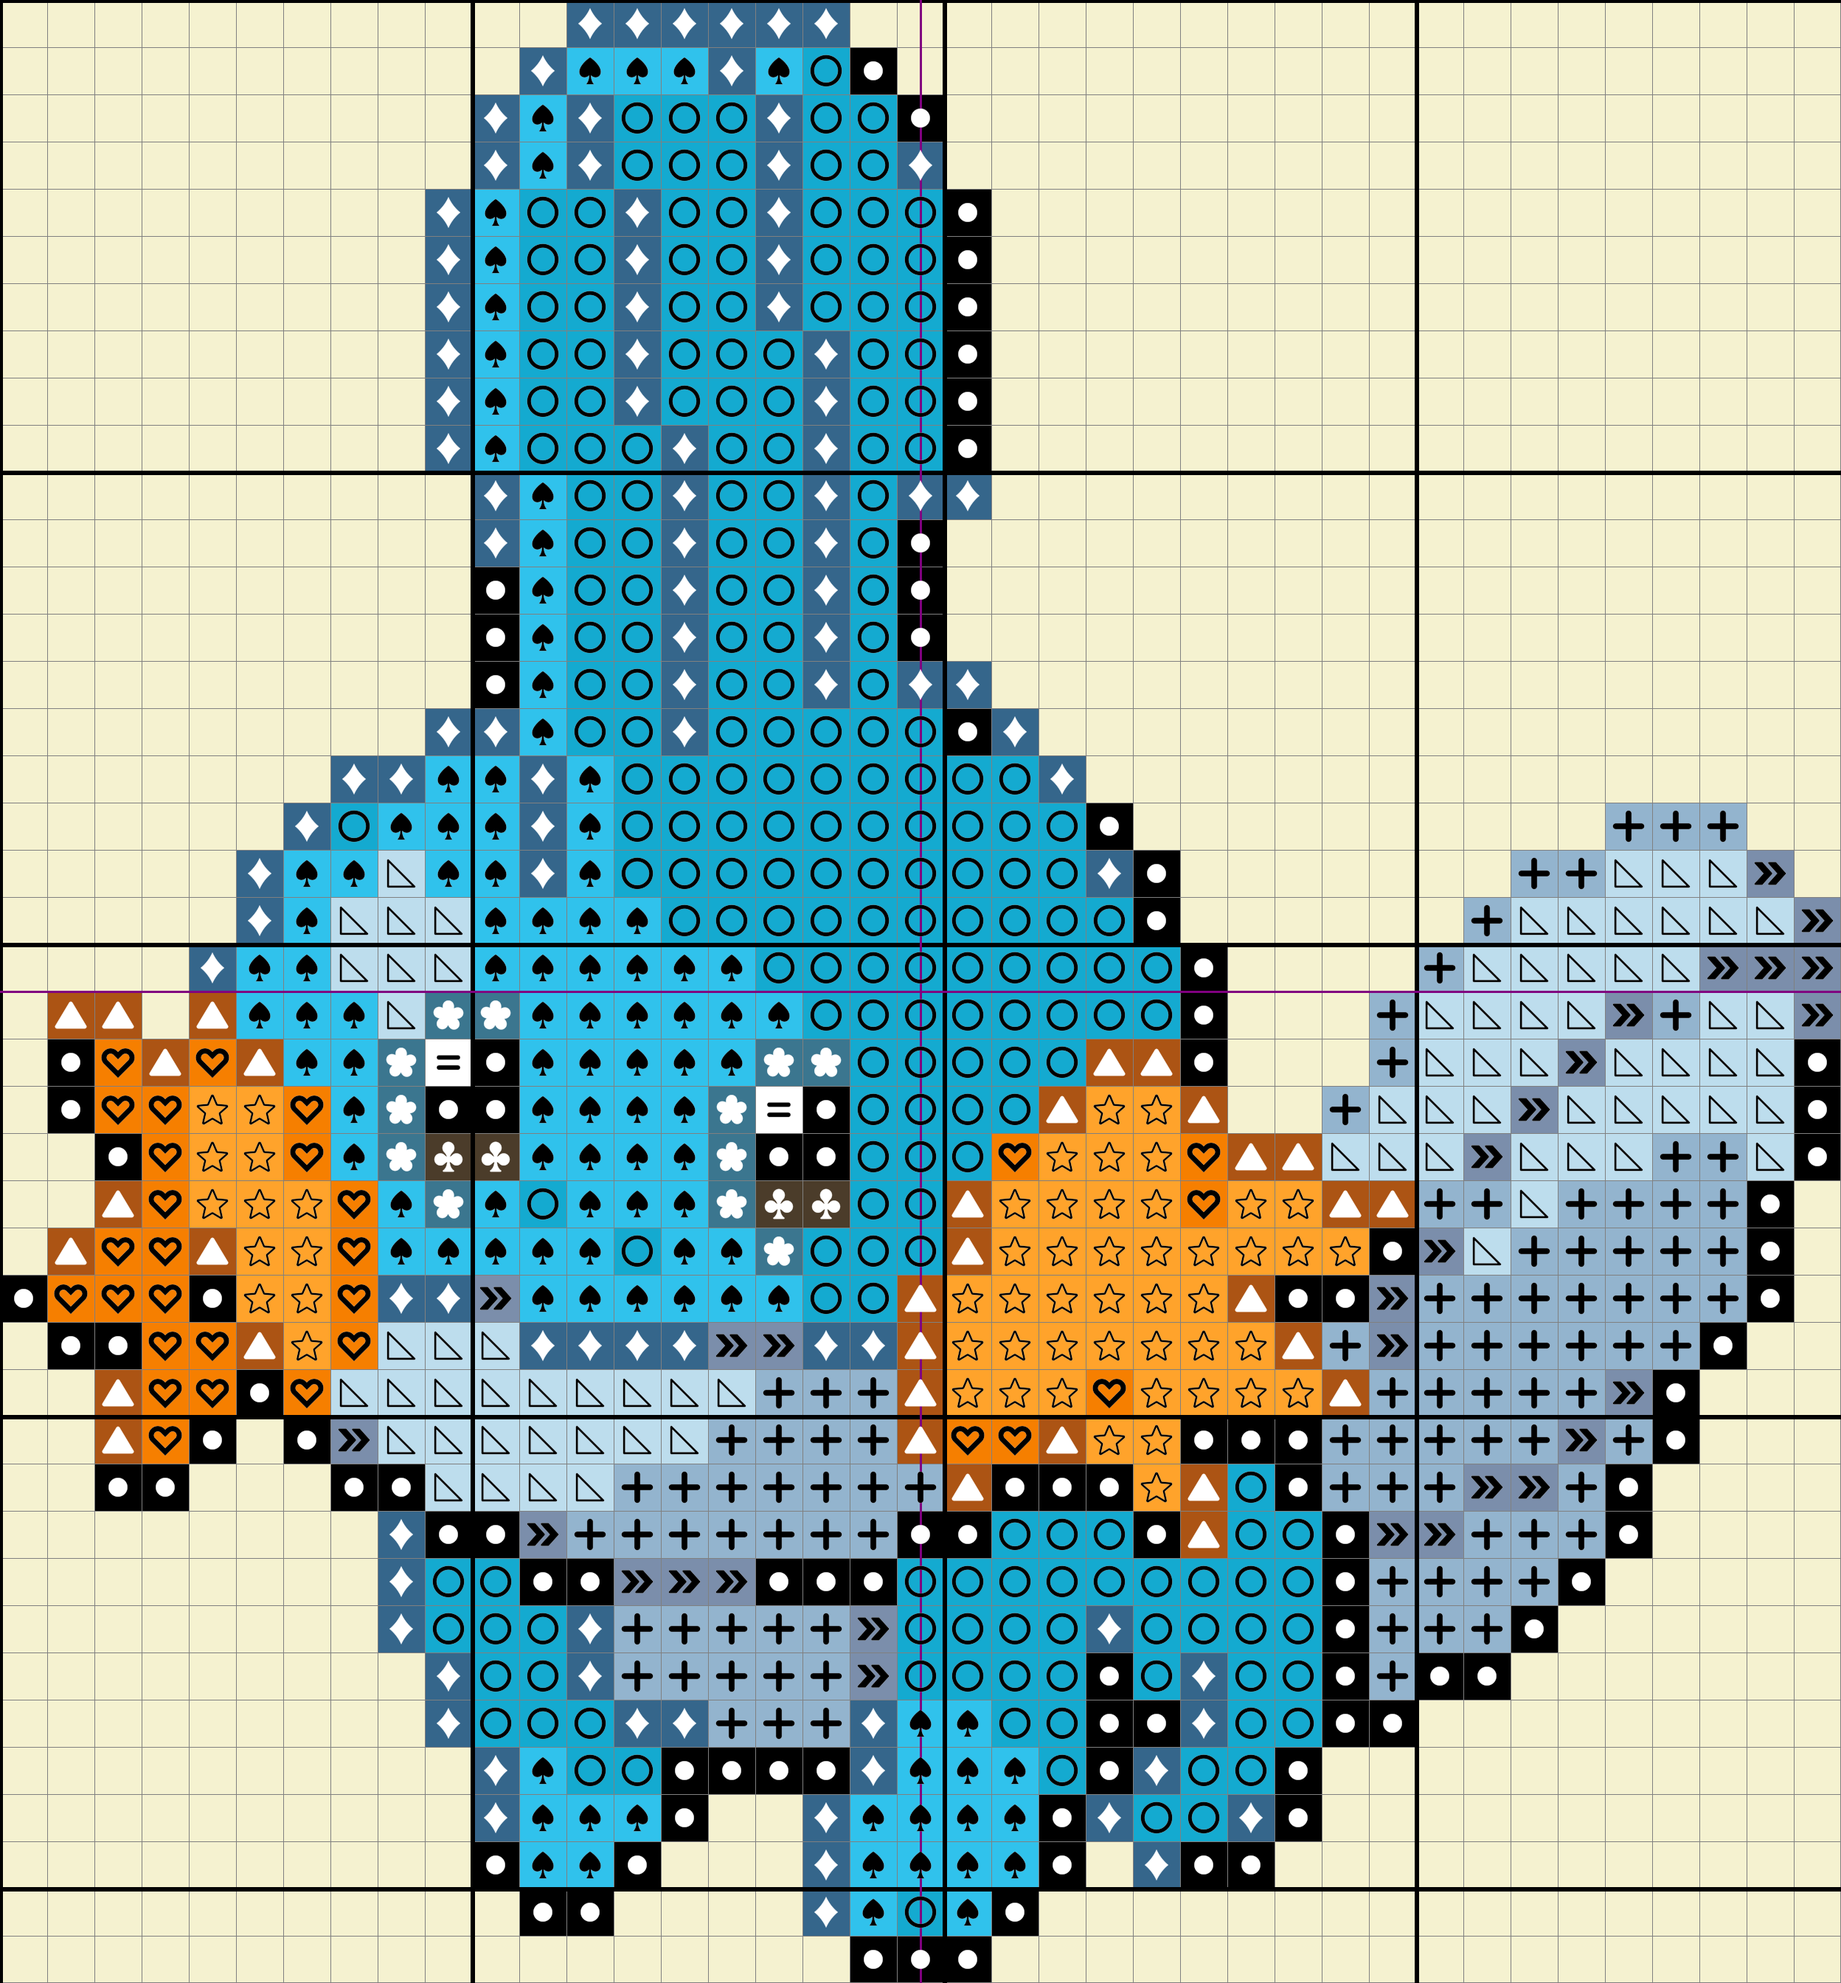
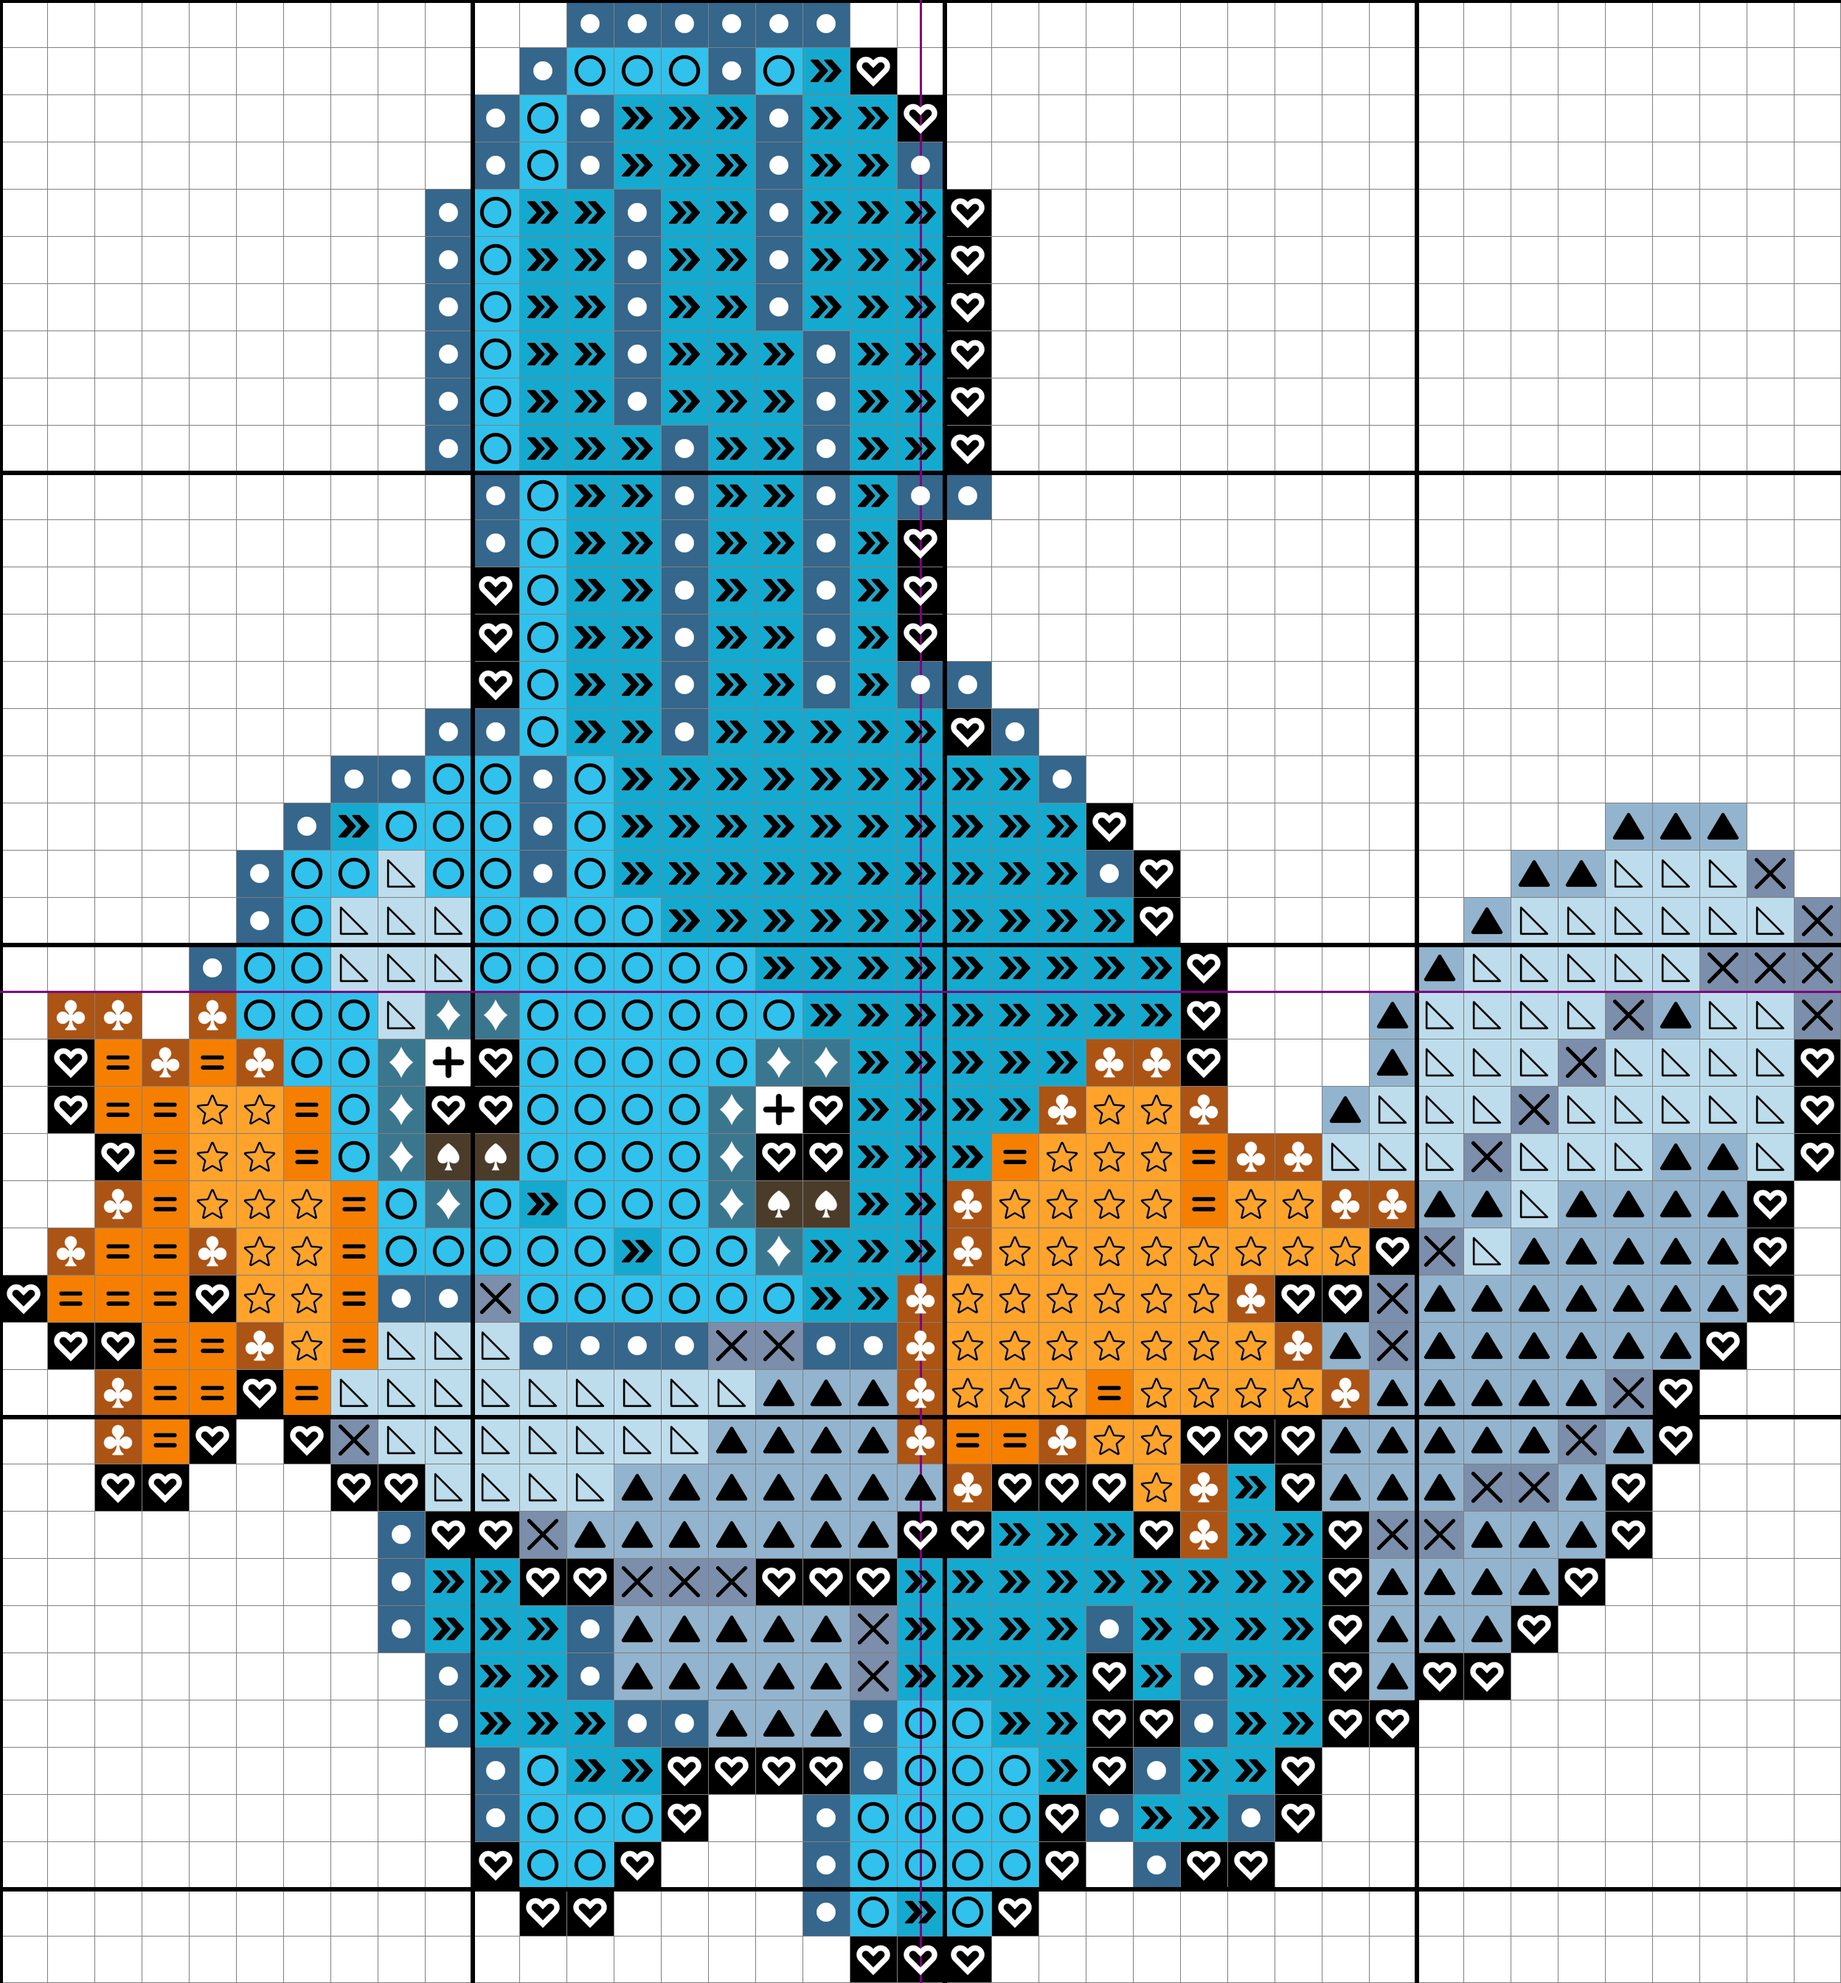
final image - bugged

diff --git a/utils.py b/utils.py
@@ -1,4 +1,4 @@
-from PIL import Image, ImageDraw, ImageOps
+from PIL import Image, ImageDraw, ImageOps, ImageFont
 import numpy as np
 import polars as pl
 import pandas as pd
@@ -217,8 +217,8 @@ def add_grid(image_path):
     img = Image.open(image_path).convert("RGBA")
 
     # Create a temp background for testing
-    temp_bckgnd_color = (245, 242, 208)
-    background = Image.new("RGBA", img.size, temp_bckgnd_color)
+    # temp_bckgnd_color = (255, 255, 255)  # (245, 242, 208)
+    background = Image.new("RGBA", img.size)  # , temp_bckgnd_color)
     background.paste(img, (0, 0), img)
     img = background
 
@@ -328,9 +328,97 @@ def add_symbols(base_image_path, grid_image_path, color_chart):
 
                         scaled.paste(symbol, (px, py), symbol)
 
-    scaled.save("test.png")
-    return color_key
+    output_path = "test.png"
+    scaled.save(output_path)
+    return color_key, output_path
 
+
+def create_color_key(key, image_path):
+    key = key.sort_values(by='DMC Number').reset_index(drop=True)
+
+    # Create an Image
+    height = len(key) * SCALE
+    width = 900
+    image = Image.new("RGB", size=(width, height), color=(255, 255, 255))
+    draw = ImageDraw.Draw(image)
+
+    # Image Sizing & Step Size
+    x_start = 0
+    x_end = image.width
+    step_size = SCALE
+    margin = 5
+    font_size = SCALE - (4*margin)
+
+    # Cycle Through and Draw Key
+    for y in range(0, image.height, step_size):
+        index = int(y/SCALE)
+
+        # Draw Horizontal Lines
+        line = ((x_start, y), (x_end, y))
+        draw.line(line, fill="black", width=1)
+
+        # Draw a Colored Square
+        color_str = (key["Color Match RGB"].iloc[index].replace('[', '')
+                     .replace(']', '').replace(',', ''))
+        color = tuple(map(int, tuple(color_str.split())))
+
+        square_coords = [(x_start+margin, y+margin),
+                         (x_start+SCALE-margin, y+SCALE-margin)]
+        draw.rectangle(square_coords, fill=color)
+
+        # Symbols
+        symbol_path = key["Symbol"].iloc[index]
+        symbol_scale = SCALE - (margin * 2)
+        symbol = Image.open(symbol_path).convert("RGBA")
+        symbol = symbol.resize((symbol_scale, symbol_scale))
+
+        if color_correction(color):
+            arr = np.array(symbol)
+            arr[..., :3] = 255 - arr[..., :3]
+            symbol = Image.fromarray(arr, "RGBA")
+
+        image.paste(symbol, (x_start+margin, y+margin), symbol)
+
+        # Labels
+        dmc_num = key["DMC Number"].iloc[index]
+        dmc_name = key["Floss Name"].iloc[index]
+
+        try:
+            # Load a TrueType font file and set the size
+            font = ImageFont.truetype("arial.ttf", font_size)
+        except IOError:
+            print("Font file not found, using default font which is not scalable.")
+            font = ImageFont.load_default() 
+
+        text_start = x_start+SCALE+(2*margin)
+        draw.text((text_start, y+margin), f"DMC {dmc_num} - {dmc_name}",
+                  fill="black", font=font)
+
+    output_path = image_path.replace("_grid.png", "_key.png")
+    image.save(output_path)
+    return output_path
+
+
+def combine_image_and_key(key_path, image_path):
+
+    # Get Image Dimensions
+    img = Image.open(image_path).convert("RGBA")
+    img_w, img_h = img.size
+
+    # Get Key Dimensions
+    key = Image.open(key_path).convert("RGBA")
+    key_w, key_h = key.size
+
+    max_h = max(img_h, key_h)
+    sum_w = img_w + key_w
+
+    canvas = Image.new("RGB", size=(sum_w, max_h), color=(255, 255, 255))
+    # canvas = ImageDraw.Draw(image)
+    canvas.paste(img, (0, 0), mask=img) # Use mask to maintain transparency
+    canvas.paste(key, (img_w, 0), mask=key) # Use mask to maintain transparency
+
+    output_path = "finished.png"
+    canvas.save(output_path)
 
 # -------------------------------------------------------- Supporting Functions
 def rgb_to_lab(rgb):
@@ -536,3 +624,4 @@ def color_correction(color):
     luminance = 0.2126 * r + 0.7152 * g + 0.0722 * b
 
     return False if luminance > 127.5 else True
+

diff --git a/main.py b/main.py
@@ -1,11 +1,13 @@
 
 # pl.Config.set_tbl_rows(-1)  # Show all rows in any printed polars dataframes
 
-
+import os
 from utils import crop_transparent_border, get_RGBA_list, prep_dmc_color_lst, \
     compare_colors, duplicate_checking, recolor_image, create_side_by_side, \
-    add_grid, add_symbols
+    add_grid, add_symbols, create_color_key, combine_image_and_key
 
+
+os.system('cls' if os.name == 'nt' else 'clear')
 
 # ------------------------- Main Code -------------------------
 crop_path = crop_transparent_border(r"Sample_Images\mudkip.png")
@@ -22,7 +24,8 @@ grid_path = add_grid(recolor_path)
 
 # duplicate_checking(color_chart, crop_path, grid_path)
 
-color_key = add_symbols(recolor_path, grid_path, color_chart)
+color_key, symbol_path = add_symbols(recolor_path, grid_path, color_chart)
 
+key_path = create_color_key(color_key, grid_path)
 
-
+combine_image_and_key(key_path, symbol_path)
